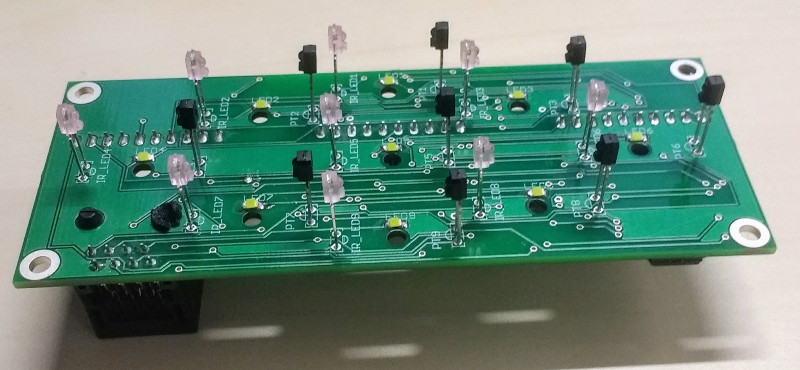
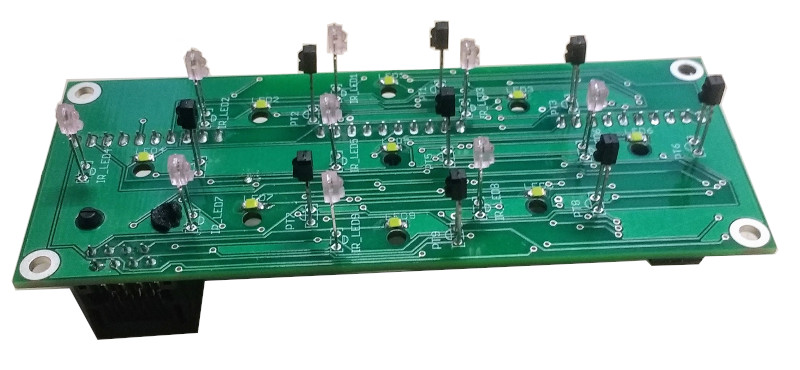
- Fixed broken links due to example task folder changing location. - Changed some hardware photos. - Reorganised order of some hardware docs.

diff --git a/docs/user-guide/hardware.md b/docs/user-guide/hardware.md
@@ -22,7 +22,7 @@ As electronic devices pyControl hardware could pose a fire risk if used inapprop
 
 ## Hardware definitions
 
-Hardware objects can be instantiated directly in a state machine definition file (as in the [button](https://github.com/pyControl/code/blob/master/tasks/button.py) example), however the recomended way of specifying hardware is to create a *hardware definition* file which is imported by the state machine.  The rationale for this is twofold: Firstly, the same hardware setup is  typically used for many different tasks so seperating out the hardware and task definition code into seperate files avoids repeating the hardware definition in each task file.  Secondly, the same task may be used on different setups without modifying the task code as long as the required hardware devices are specified in the setup's hardware definitions.
+Hardware objects can be instantiated directly in a state machine definition file (as in the [button](https://github.com/pyControl/code/blob/master/tasks/example/button.py) example), however the recomended way of specifying hardware is to create a *hardware definition* file which is imported by the state machine.  The rationale for this is twofold: Firstly, the same hardware setup is  typically used for many different tasks so seperating out the hardware and task definition code into seperate files avoids repeating the hardware definition in each task file.  Secondly, the same task may be used on different setups without modifying the task code as long as the required hardware devices are specified in the setup's hardware definitions.
 
 The hardware definition tells the pyControl system what inputs and outputs are available for use by state machines.  A simple hardware definition file might read:
 
@@ -103,6 +103,36 @@ class Digital_input(pin, rising_event=None, falling_event=None, debounce=5, deci
 
 ---
 
+## Digital output
+
+The digital output class is used to control a pyboard pin used as a digital output.
+
+```python
+class Digital_output(pin, inverted=False, pulse_enabled=False)
+```
+
+*Arguments:*
+
+`pin` Micropython pin to use.
+
+`inverted` If `True`, the pin voltage is set high when the input is turned off and low when turned on.
+
+`pulse_enabled` Set to `True` to enable squarewave pulsed output using the `pulse` method.  Pulsed output uses one of the pyboard hardware timers and as there are a limited number of these pulsed output is by default disabled.
+
+*Methods:*
+
+`Digital_output.on()` Turn on output.
+
+`Digital_output.off()` Turn off output.
+
+`Digital_output.toggle()` Toggle output.
+
+`Digital_output.pulse(freq, duty_cycle=50, n_pulses=False)` Turn on a pulse train with specified frequency (Hz). The duty cycle (percentage of the period for which the signal is high) can be specified as 10, 25, 50 or 75.  If the n_pulses argument is set to an integer the pulse train will stop after this number of pulses has been delivered.
+
+`Digital_output.enable_pulse()` Setup output to support pulsed output.
+
+---
+
 ## Analog input
 
 The analog input class measures the voltage on a pin at a specified sampling rate, can stream these measurements to the host computer to be saved to disk, and can generate pyControl framework events when the voltage rises above or falls below a specified threshold.  
@@ -138,33 +168,9 @@ class Analog_input(pin, name, sampling_rate, threshold=None, rising_event=None, 
 
 ---
 
-## Digital output
+## Analog outputs
 
-The digital output class is used to control a pyboard pin used as a digital output.
-
-```python
-class Digital_output(pin, inverted=False, pulse_enabled=False)
-```
-
-*Arguments:*
-
-`pin` Micropython pin to use.
-
-`inverted` If `True`, the pin voltage is set high when the input is turned off and low when turned on.
-
-`pulse_enabled` Set to `True` to enable squarewave pulsed output using the `pulse` method.  Pulsed output uses one of the pyboard hardware timers and as there are a limited number of these pulsed output is by default disabled.
-
-*Methods:*
-
-`Digital_output.on()` Turn on output.
-
-`Digital_output.off()` Turn off output.
-
-`Digital_output.toggle()` Toggle output.
-
-`Digital_output.pulse(freq, duty_cycle=50, n_pulses=False)` Turn on a pulse train with specified frequency (Hz). The duty cycle (percentage of the period for which the signal is high) can be specified as 10, 25, 50 or 75.  If the n_pulses argument is set to an integer the pulse train will stop after this number of pulses has been delivered.
-
-`Digital_output.enable_pulse()` Setup output to support pulsed output.
+Pyboard pins 'X5' and 'X6' support analog output.  On the breakout board they are connected to the BNC connectors labled DAC-1 and DAC-2 and also to the special function pins on behaviour ports 3 and 4 respectively.  To use these pins as analog outputs see the [pyb.DAC](https://docs.micropython.org/en/latest/library/pyb.DAC.html) class in the micropython docs.
 
 ---
 
@@ -500,7 +506,7 @@ Class for acquiring data from a rotary encoder, used e.g. to measure the speed o
 
 The rotary encoder adaptor board connects an Avago HEDM-55xx series rotary encoder ([datasheet](https://docs.broadcom.com/docs/AV02-1046EN)) to a pyControl behaviour port.  The rotary encoder adaptor must be plugged into port_1 on breakout board 1.2.
 
-For an example task using a rotary encoder to measure running speed and trigger framework events when running starts and stops see [*running_wheel*](https://github.com/pyControl/code/blob/master/tasks/running_wheel.py).
+For an example task using a rotary encoder to measure running speed and trigger framework events when running starts and stops see [*running_wheel*](https://github.com/pyControl/code/blob/master/tasks/example/running_wheel.py).
 
 [Repository](https://github.com/pyControl/hardware/tree/master/Rotary_encoder)
 

diff --git a/docs/user-guide/programming-tasks.md b/docs/user-guide/programming-tasks.md
@@ -161,7 +161,7 @@ When the framwork is stopped in this way, the `run_end` function will be called 
 
 ## State independent behaviour
 
-The `all_states` function can be used to implement behaviour which occurs irrespective of the state the task is in.  Combined with timers and variables, the `all_states` function is a powerful tool for making things happen in parallel with the main state set of the task.  For a simple example of this see the [all_states_example](https://github.com/pyControl/code/blob/master/tasks/all_states_example.py) task.
+The `all_states` function can be used to implement behaviour which occurs irrespective of the state the task is in.  Combined with timers and variables, the `all_states` function is a powerful tool for making things happen in parallel with the main state set of the task.  For a simple example of this see the [all_states_example](https://github.com/pyControl/code/blob/master/tasks/example/all_states_example.py) task.
 
 If the `all_states` function is defined, it will be called every time an event occurs with the event that occured as an argument.
 
@@ -215,11 +215,11 @@ set_timer('event_A', 3*second, output_event=True)
 reset_timer('event_B', 3*second, output_event=True)
 ```
 
-The `print()` function has modified behavour when called within the context of a task definition file - the printed string is output to the data log along with a timestamp.  The print function can therefore be used to output arbitrary data with timestamps consistent with those of events and state transitions.  The [reversal_learning](https://github.com/pyControl/code/blob/master/tasks/reversal_learning.py) example shows one approach to using print statements to output task data. One line is printed for each trial summarising what happened on that trial and the current state of the task.
+The `print()` function has modified behavour when called within the context of a task definition file - the printed string is output to the data log along with a timestamp.  The print function can therefore be used to output arbitrary data with timestamps consistent with those of events and state transitions.  The [reversal_learning](https://github.com/pyControl/code/blob/master/tasks/example/reversal_learning.py) example shows one approach to using print statements to output task data. One line is printed for each trial summarising what happened on that trial and the current state of the task.
 
 ## Structuring task files
 
-As pyControl task definition files are just Python modules, you can define arbitrary functions that can be called from within state behaviour functions.  A useful application of this is to seperate code that defines the behaviour of the state machine from code which implements other aspects of the task, such as block structure or stimulus selection.  Organising task code in this way is recommended as it makes task definitions easier to understand and maintain. The [reversal_learning](https://github.com/pyControl/code/blob/master/tasks/reversal_learning.py) example uses this structure.
+As pyControl task definition files are just Python modules, you can define arbitrary functions that can be called from within state behaviour functions.  A useful application of this is to seperate code that defines the behaviour of the state machine from code which implements other aspects of the task, such as block structure or stimulus selection.  Organising task code in this way is recommended as it makes task definitions easier to understand and maintain. The [reversal_learning](https://github.com/pyControl/code/blob/master/tasks/example/reversal_learning.py) example uses this structure.
 
 # Function reference
 

diff --git a/docs/user-guide/pycontrol-data.md b/docs/user-guide/pycontrol-data.md
@@ -20,7 +20,8 @@ D 8976 3
 D 8976 1
 P 8976 This is the output of a print statement
 D 10162 3
-D 10163 2
+V 10231 variable_name variable_value
+D 10423 2
 ```
 
 Lines begining `I` contain infomation about the session including subject, task and experiment names, start date and time.
@@ -33,11 +34,13 @@ Lines begining `D` are data lines with format `D timestamp ID` where *timestamp*
 
 Lines begining `P` are the output of print statements with format *P timestamp printed_output*. 
 
+Lines begining `V` indicate the value of a task variable along with a timestamp.  These lines are generated whenever a variable is either set or read from the board by the GUI.  Variables set prior to the task starting are given a timestamp of 0, and the value of summary variables printed at the end of the run are given a timestamp of -1.
+
 Lines begining `!` indicate that an error occured during the framework run and contain the error message.
 
 ## Versioned task files
 
-Task files used to generate data are also stored in the data folder, with a file hash appended to the task file name to uniquely identify the file version.  The file hash of the task file used for each session is recorded in that session's data file so the exact task file version used to run each session can be identified.
+Task files used to generate data are also stored in the data folder, with a file hash appended to the task file name to uniquely identify the file version.  The file hash of the task file used for each session is recorded in that session's data file so the exact task file version used to run each session can be identified.  We encourage users to treat these versioned task files as part of the experiments data, and to include them in data repositories to promote replicability of pyControl experiments.
 
 ---
 

diff --git a/docs/index.md b/docs/index.md
@@ -86,7 +86,7 @@ Plug in a pyboard and it will appear in the *Select* drop down menu in the *Setu
 #
 If the pyControl framework is not already installed on the board, you will see a message saying *Load pyControl framework using 'Config' button.* Press the *Config* button to bring up the config menu and select *Load framework*.  If you see a message prompting you to disable the pyboard filesystem from acting as a USB flash drive, click *Yes*, then reconnect to the board (the serial port may have changed when you disable the flash drive) and load the framework.
 #
-Once the pyControl framework is installed on the board, from the *Tasks* drop down menu, select the task [*blinker*](https://github.com/pyControl/code/blob/master/tasks/blinker.py).  Press the *Upload* button to upload the task to the pyboard.
+Once the pyControl framework is installed on the board, from the *Tasks* drop down menu, select the task [*blinker*](https://github.com/pyControl/code/blob/master/tasks/example/blinker.py).  Press the *Upload* button to upload the task to the pyboard.
 # 
 Press the *Start* button.  The task will run causing the blue LED on the pyboard to start blinking.
 # 

diff --git a/docs/user-guide/graphical-user-interface.md b/docs/user-guide/graphical-user-interface.md
@@ -51,7 +51,7 @@ The GUI will connect to the setups and upload the task. Once the task is loaded 
 
 While the experiment is running, data from each setup is shown in a seperate box.  This shows the current state, the most recent event, the most recent line printed, and a log of output generated by the task. The variables button brings up a dialog to set or get the value of task variables for that subject.
 
-The *Hide logs* button hides the log textboxes for all subjects.
+The *Hide logs* button hides the log textboxes for all subjects, leaving the summary data (current state, most recent event and print) and buttons, to fit more setups on screen simultaneously.
 
 The *Show plots* button opens a tabbed window where the behaviour of each subject can be visualised.  Plots for each subjects can be popped out into seperate windows by dragging or double clicking their tab.
 
